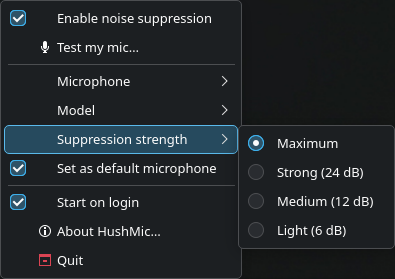
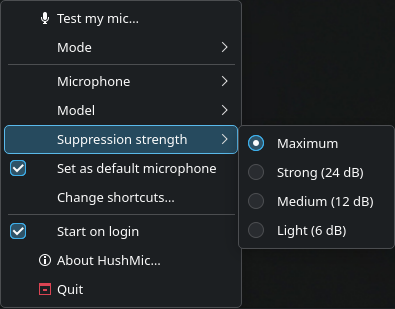
docs: refresh tray-menu screenshots, add the Mode switcher shot

diff --git a/README.md b/README.md
@@ -158,9 +158,10 @@ Exit codes: `0` ok, `1` invalid usage or a failed command, `2` HushMic is not ru
 </p>
 
 <details>
-<summary><b>More screenshots</b> — microphone picker, model picker, suppression strength</summary>
+<summary><b>More screenshots</b> — mode switcher, microphone picker, model picker, suppression strength</summary>
 
 <p align="center">
+  <img src="docs/img/hushmic-menu-mode.png" alt="Mode switcher" width="360">
   <img src="docs/img/hushmic-menu-microphone.png" alt="Microphone picker" width="360">
   <img src="docs/img/hushmic-menu-model.png" alt="Model picker" width="360">
   <img src="docs/img/hushmic-menu-suppression.png" alt="Suppression strength" width="310">